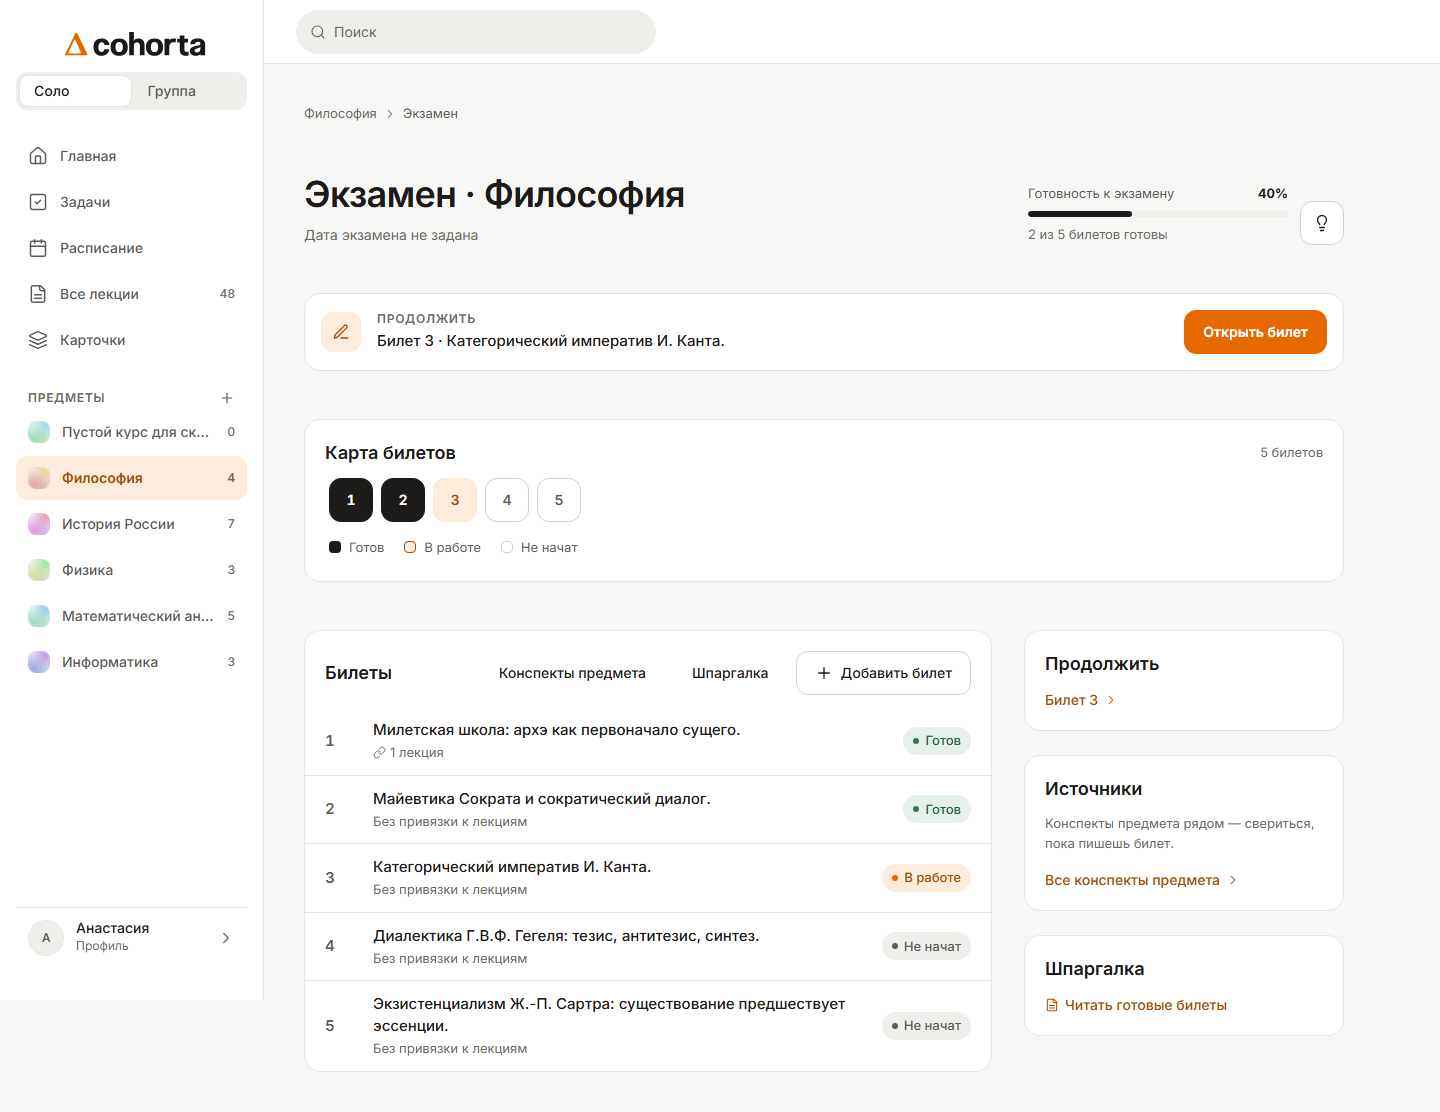
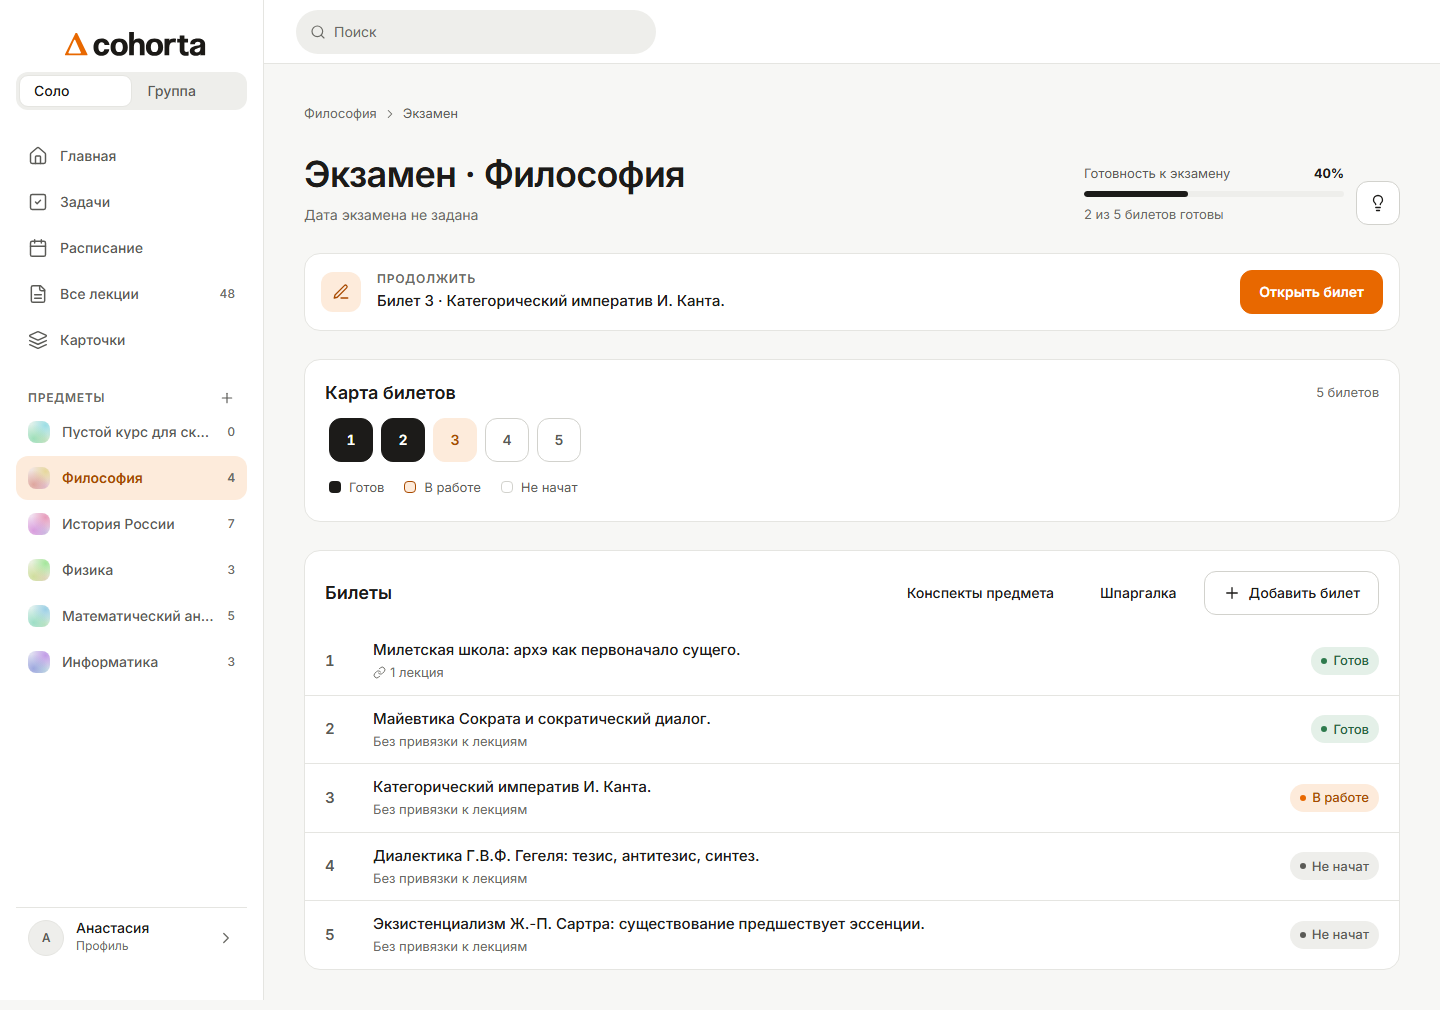
fix(design): B4 — хаб экзамена: 28px между блоками, убран блок c-exam-aside
Правки владелицы по скриншоту:
- gap корневого контейнера .c-exam (и заодно .c-ticket/.c-cheatsheet/
  .c-import той же волны) был var(--space-7) = 48px; в макете
  Screen-exam.dc.html и остальных экранах волны — gap:28px.
- Правая колонка «Продолжить / Источники / Шпаргалка» (c-exam-aside)
  в Screen-exam.dc.html не нарисована вовсе — убрана, карточка
  «Билеты» теперь на всю ширину. Заодно поправлена видимость на
  телефоне: при удалении обёртки .c-exam-cols карточки «Карта
  билетов» и «Билеты» потеряли класс, по которому их скрывала
  мобильная медиа-граница (c-exam-map-grid-wrap/c-exam-cols —
  переименовано в явные c-exam-map-card/c-exam-tickets-card).

diff --git a/apps/web/src/pages/ExamHubPageNew.tsx b/apps/web/src/pages/ExamHubPageNew.tsx
@@ -208,7 +208,7 @@ export default function ExamHubPageNew() {
         </div>
       )}
 
-      <div className="c-exam-card">
+      <div className="c-exam-card c-exam-map-card">
         <div className="c-exam-card-head">
           <h2>Карта билетов</h2>
           <span className="meta">
@@ -244,88 +244,45 @@ export default function ExamHubPageNew() {
         </div>
       </div>
 
-      <div className="c-exam-cols">
-        <div className="c-exam-main">
-          <div className="c-exam-card">
-            <div className="c-exam-card-head">
-              <h2>Билеты</h2>
-              <div className="actions">
-                <Button variant="ghost" onClick={() => navigate(base)}>
-                  Конспекты предмета
-                </Button>
-                <Button variant="ghost" onClick={() => navigate(`${base}/exam/cheatsheet`)}>
-                  Шпаргалка
-                </Button>
-                <Button variant="secondary" onClick={() => setAddOpen(true)}>
-                  <Icon name="plus" size={18} />
-                  Добавить билет
-                </Button>
-              </div>
-            </div>
-            <div>
-              {tickets.map((t) => {
-                const status = ticketStatus(t);
-                const n = ticketNumber(t);
-                const sourceCount = ticketSourceIds(t).length;
-                return (
-                  <Link key={t.id} to={ticketHref(n, status)} className="c-exam-ticket-row">
-                    <span className="c-exam-ticket-num">{n}</span>
-                    <span className="c-exam-ticket-tx">
-                      <span className="t">{ticketQuestion(t)}</span>
-                      {sourceCount > 0 ? (
-                        <span className="m">
-                          <Icon name="link" size={13} />
-                          {sourceCount} {pluralRu(sourceCount, ["лекция", "лекции", "лекций"])}
-                        </span>
-                      ) : (
-                        <span className="m">Без привязки к лекциям</span>
-                      )}
-                    </span>
-                    <StatusChip tone={STATUS_TONE[status]}>{STATUS_LABEL[status]}</StatusChip>
-                  </Link>
-                );
-              })}
-            </div>
+      <div className="c-exam-card c-exam-tickets-card">
+        <div className="c-exam-card-head">
+          <h2>Билеты</h2>
+          <div className="actions">
+            <Button variant="ghost" onClick={() => navigate(base)}>
+              Конспекты предмета
+            </Button>
+            <Button variant="ghost" onClick={() => navigate(`${base}/exam/cheatsheet`)}>
+              Шпаргалка
+            </Button>
+            <Button variant="secondary" onClick={() => setAddOpen(true)}>
+              <Icon name="plus" size={18} />
+              Добавить билет
+            </Button>
           </div>
         </div>
-        <div className="c-exam-aside">
-          <div className="c-exam-card">
-            <div className="c-exam-card-head">
-              <h2>Продолжить</h2>
-            </div>
-            {nextToFill ? (
-              <Link
-                to={ticketHref(ticketNumber(nextToFill), ticketStatus(nextToFill))}
-                className="c-exam-aside-link"
-              >
-                Билет {ticketNumber(nextToFill)}
-                <Icon name="chev" size={14} />
+        <div>
+          {tickets.map((t) => {
+            const status = ticketStatus(t);
+            const n = ticketNumber(t);
+            const sourceCount = ticketSourceIds(t).length;
+            return (
+              <Link key={t.id} to={ticketHref(n, status)} className="c-exam-ticket-row">
+                <span className="c-exam-ticket-num">{n}</span>
+                <span className="c-exam-ticket-tx">
+                  <span className="t">{ticketQuestion(t)}</span>
+                  {sourceCount > 0 ? (
+                    <span className="m">
+                      <Icon name="link" size={13} />
+                      {sourceCount} {pluralRu(sourceCount, ["лекция", "лекции", "лекций"])}
+                    </span>
+                  ) : (
+                    <span className="m">Без привязки к лекциям</span>
+                  )}
+                </span>
+                <StatusChip tone={STATUS_TONE[status]}>{STATUS_LABEL[status]}</StatusChip>
               </Link>
-            ) : (
-              <p className="c-exam-aside-empty">Все билеты готовы.</p>
-            )}
-          </div>
-          <div className="c-exam-card">
-            <div className="c-exam-card-head">
-              <h2>Источники</h2>
-            </div>
-            <p className="c-exam-aside-empty">Конспекты предмета рядом — свериться, пока пишешь билет.</p>
-            <Link to={base} className="c-exam-aside-link">
-              Все конспекты предмета
-              <Icon name="chev" size={14} />
-            </Link>
-          </div>
-          {readyCount > 0 && (
-            <div className="c-exam-card">
-              <div className="c-exam-card-head">
-                <h2>Шпаргалка</h2>
-              </div>
-              <Link to={`${base}/exam/cheatsheet`} className="c-exam-aside-link">
-                <Icon name="doc" size={14} />
-                Читать готовые билеты
-              </Link>
-            </div>
-          )}
+            );
+          })}
         </div>
       </div>
 

diff --git a/apps/web/src/styles/components.css b/apps/web/src/styles/components.css
@@ -2433,7 +2433,7 @@ button.c-row.on:hover { background: var(--accent-soft); }
 .c-exam-card-head .actions { display: flex; gap: 8px; }
 .c-exam-card-pad { padding: 24px; }
 
-.c-exam { display: flex; flex-direction: column; gap: var(--space-7); font-family: var(--font-sans); }
+.c-exam { display: flex; flex-direction: column; gap: 28px; font-family: var(--font-sans); }
 
 .c-exam-crumb { display: flex; align-items: center; gap: 6px; font-size: 13px; color: var(--ink-3); }
 .c-exam-crumb .current { color: var(--ink-2); }
@@ -2479,12 +2479,6 @@ button.c-row.on:hover { background: var(--accent-soft); }
 .c-exam-legend-swatch.draft { background: var(--accent-soft); border: 1px solid var(--accent-strong); }
 .c-exam-legend-swatch.todo { border: 1px solid var(--line-strong); }
 
-.c-exam-cols { display: flex; gap: var(--space-8); align-items: flex-start; }
-.c-exam-main { flex: 1; min-width: 0; }
-.c-exam-aside { width: 320px; flex: none; display: flex; flex-direction: column; gap: var(--space-5); }
-.c-exam-aside-link { display: flex; align-items: center; gap: 6px; padding: 0 20px 20px; font-size: 14px; font-weight: 500; color: var(--accent-strong); text-decoration: none; }
-.c-exam-aside-empty { margin: 0; padding: 0 20px 16px; font-size: 13px; color: var(--ink-3); }
-
 .c-exam-ticket-row { display: flex; align-items: center; gap: 16px; min-height: 64px; padding: 12px 20px; box-sizing: border-box; border-top: 1px solid var(--line); color: inherit; text-decoration: none; }
 .c-exam-ticket-row:hover { background: var(--bg); }
 .c-exam-card .c-exam-ticket-row:first-child { border-top: 0; }
@@ -2500,7 +2494,7 @@ button.c-row.on:hover { background: var(--accent-soft); }
 .c-exam-m-row .t { flex: 1; min-width: 0; font-size: 15px; font-weight: 500; line-height: 20px; }
 
 @media (max-width: 1023px) {
-  .c-exam-crumb, .c-exam-head, .c-exam-continue, .c-exam-map-grid-wrap, .c-exam-cols { display: none; }
+  .c-exam-crumb, .c-exam-head, .c-exam-continue, .c-exam-map-card, .c-exam-tickets-card { display: none; }
   .c-exam-m-crumb { display: block; }
   .c-exam-m-head { display: flex; }
   .c-exam-m-actions { display: flex; }
@@ -2510,7 +2504,7 @@ button.c-row.on:hover { background: var(--accent-soft); }
 /* Билет: pages/TicketPageNew.tsx, Screen-ticket.dc.html (своей телефонной
    версии в макете нет — тот же экран, у/без строки «Изменить» неважно на
    ширине экрана, спецсайдбар уходит под текст). */
-.c-ticket { display: flex; flex-direction: column; gap: var(--space-7); font-family: var(--font-sans); }
+.c-ticket { display: flex; flex-direction: column; gap: 28px; font-family: var(--font-sans); }
 .c-ticket-crumb { display: flex; align-items: center; gap: 6px; font-size: 13px; color: var(--ink-3); flex-wrap: wrap; }
 .c-ticket-crumb .current { color: var(--ink-2); }
 .c-ticket-head { display: flex; align-items: flex-end; justify-content: space-between; gap: var(--space-5); flex-wrap: wrap; }
@@ -2547,7 +2541,7 @@ button.c-row.on:hover { background: var(--accent-soft); }
 }
 
 /* Шпаргалка: pages/CheatsheetPageNew.tsx, Screen-cheatsheet.dc.html. */
-.c-cheatsheet { display: flex; flex-direction: column; gap: var(--space-7); font-family: var(--font-sans); }
+.c-cheatsheet { display: flex; flex-direction: column; gap: 28px; font-family: var(--font-sans); }
 .c-cheatsheet-head { display: flex; align-items: flex-end; justify-content: space-between; gap: var(--space-5); flex-wrap: wrap; }
 .c-cheatsheet-head h1 { margin: 0; font-size: 36px; line-height: 44px; font-weight: 600; letter-spacing: -0.02em; }
 .c-cheatsheet-head span { font-size: 14px; color: var(--ink-3); }
@@ -2561,7 +2555,7 @@ button.c-row.on:hover { background: var(--accent-soft); }
 .c-cheatsheet-item .tx .body { font-size: 15px; line-height: 24px; color: var(--ink-2); }
 
 /* Импорт билетов: pages/ExamImportPageNew.tsx, Screen-ticket-import.dc.html. */
-.c-import { display: flex; flex-direction: column; gap: var(--space-7); font-family: var(--font-sans); }
+.c-import { display: flex; flex-direction: column; gap: 28px; font-family: var(--font-sans); }
 .c-import-head { display: flex; align-items: flex-end; justify-content: space-between; gap: var(--space-5); flex-wrap: wrap; }
 .c-import-head h1 { margin: 0; font-size: 36px; line-height: 44px; font-weight: 600; letter-spacing: -0.02em; }
 .c-import-head span { font-size: 14px; color: var(--ink-3); }
